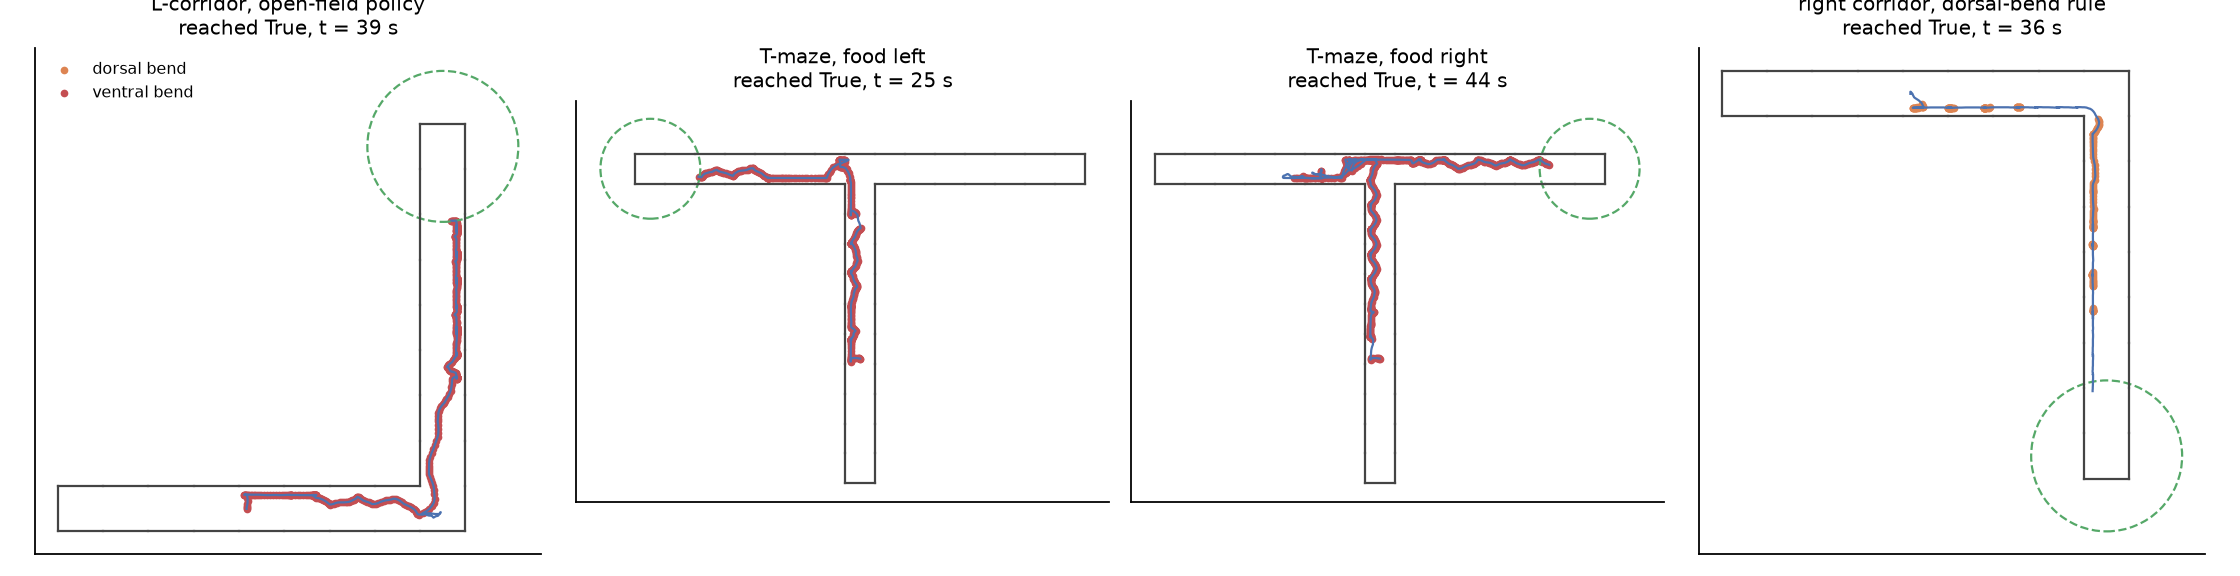
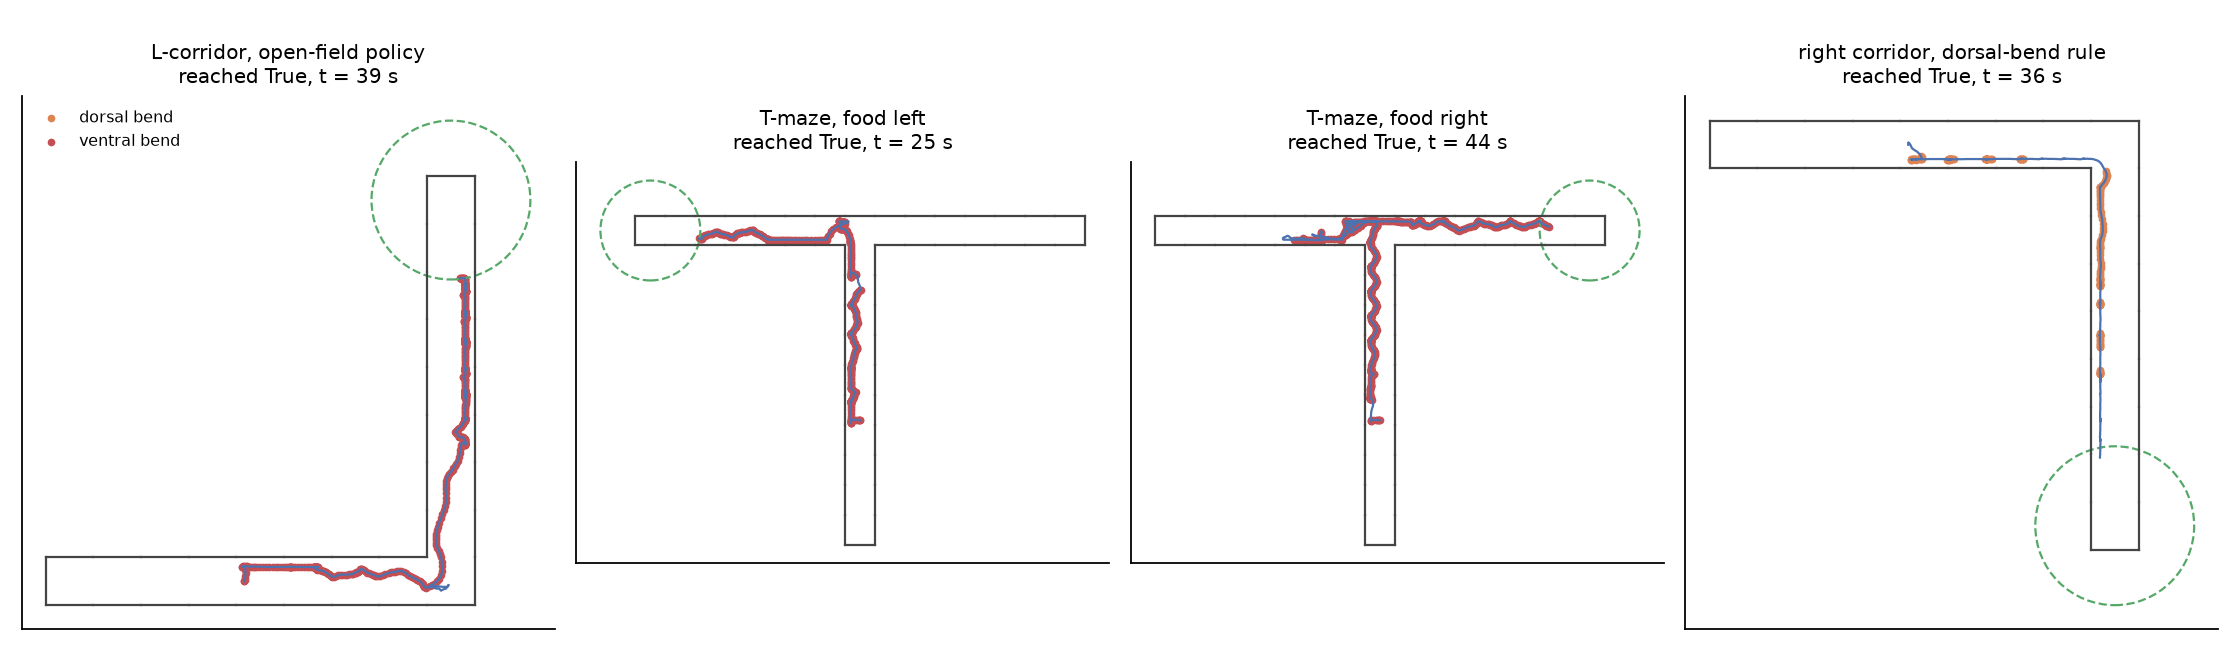
Corner-passage statistics (reversal + bend before every corner), fig4 layout
Claude-Session: https://claude.ai/code/session_01G3sevEHzRVbnrYisjMGTcY

diff --git a/experiments/paper_figures.py b/experiments/paper_figures.py
@@ -27,14 +27,14 @@ ax[1].barh(list(retr), list(retr.values()), color=["#4c72b0", "#c44e52", "#dd845
 fig.tight_layout(); fig.savefig(f"{OUT}/fig3_minimal_circuit.png", dpi=160); plt.close(fig)
 # ---- fig4: maze paths from recorded scenes
 scenes = [("corridor_L", "L-corridor, open-field policy"), ("tmaze_left_goal", "T-maze, food left"), ("tmaze_right_goal", "T-maze, food right"), ("corridor_R_dorsal", "right corridor, dorsal-bend rule")]
-fig, axes = plt.subplots(1, 4, figsize=(14, 3.6))
+fig, axes = plt.subplots(1, 4, figsize=(14, 4.2))
 for ax, (sid, title) in zip(axes, scenes):
     d = J(f"docs/assets/scenes/{sid}.json"); F = d["frames"]
     for w in d["walls"]: ax.plot([w[0], w[2]], [w[1], w[3]], color="#444", lw=1)
     H = np.array([f["body"][0] for f in F]); om = np.array([f["omega"] for f in F])
     ax.plot(H[:, 0], H[:, 1], color="#4c72b0", lw=1); ax.scatter(H[om > 0, 0], H[om > 0, 1], s=6, color="#dd8452", label="dorsal bend"); ax.scatter(H[om < 0, 0], H[om < 0, 1], s=6, color="#c44e52", label="ventral bend")
-    ax.add_patch(plt.Circle(d["src"], d["reach_r"], fill=False, ls="--", color="#55a868")); ax.set_aspect("equal"); ax.set_title(f"{title}\nreached {d['reached']}, t = {F[-1]['t']:.0f} s", fontsize=9); ax.set_xticks([]); ax.set_yticks([])
-axes[0].legend(frameon=False, fontsize=7, loc="upper left"); fig.tight_layout(); fig.savefig(f"{OUT}/fig4_mazes.png", dpi=160); plt.close(fig)
+    ax.add_patch(plt.Circle(d["src"], d["reach_r"], fill=False, ls="--", color="#55a868")); ax.set_aspect("equal"); ax.set_title(f"{title}\nreached {d['reached']}, t = {F[-1]['t']:.0f} s", fontsize=9, pad=6); ax.set_xticks([]); ax.set_yticks([])
+axes[0].legend(frameon=False, fontsize=7, loc="upper left"); fig.tight_layout(rect=(0, 0, 1, 0.92)); fig.savefig(f"{OUT}/fig4_mazes.png", dpi=160); plt.close(fig)
 # ---- fig5: bend direction = turn direction
 rows = [("ventral-only bends (ADR-016)", 64, 0, 1.00, 0.00), ("dorsal swap (DOMEGA, control)", 33, 31, None, None), ("SMDD/SMDV-directed bends, right-trained (ADR-017)", None, None, 0.00, 1.00)]
 fig, ax = plt.subplots(1, 2, figsize=(10, 3.2))
